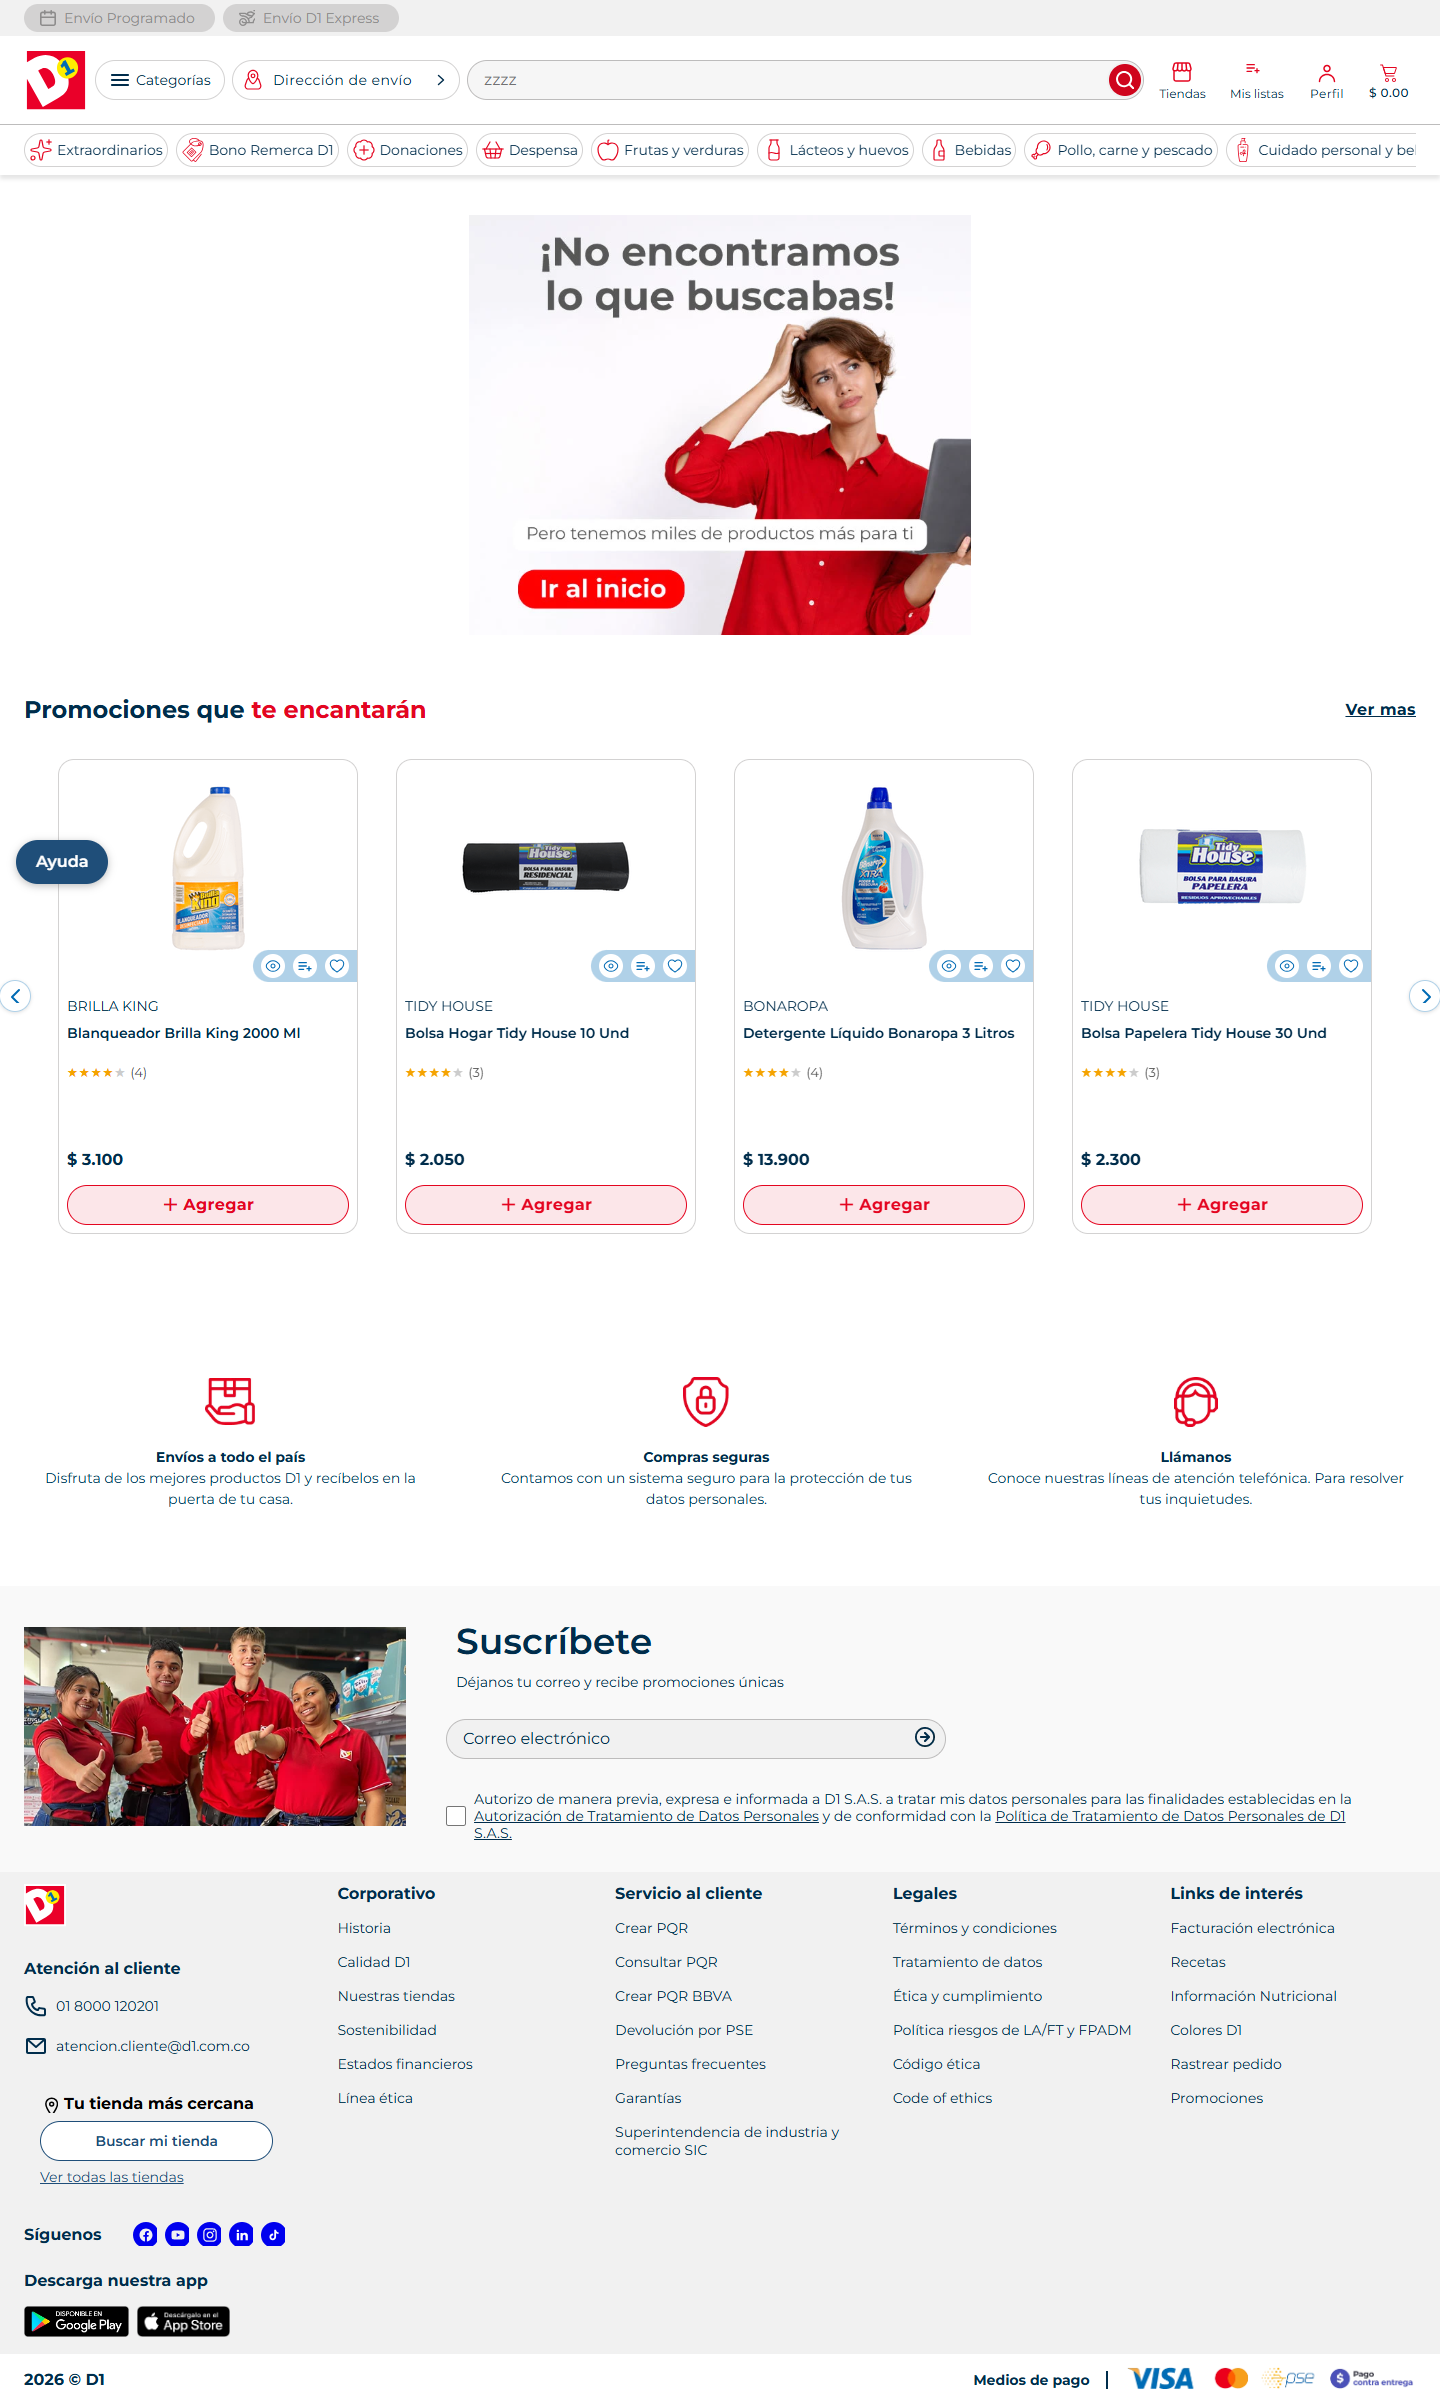
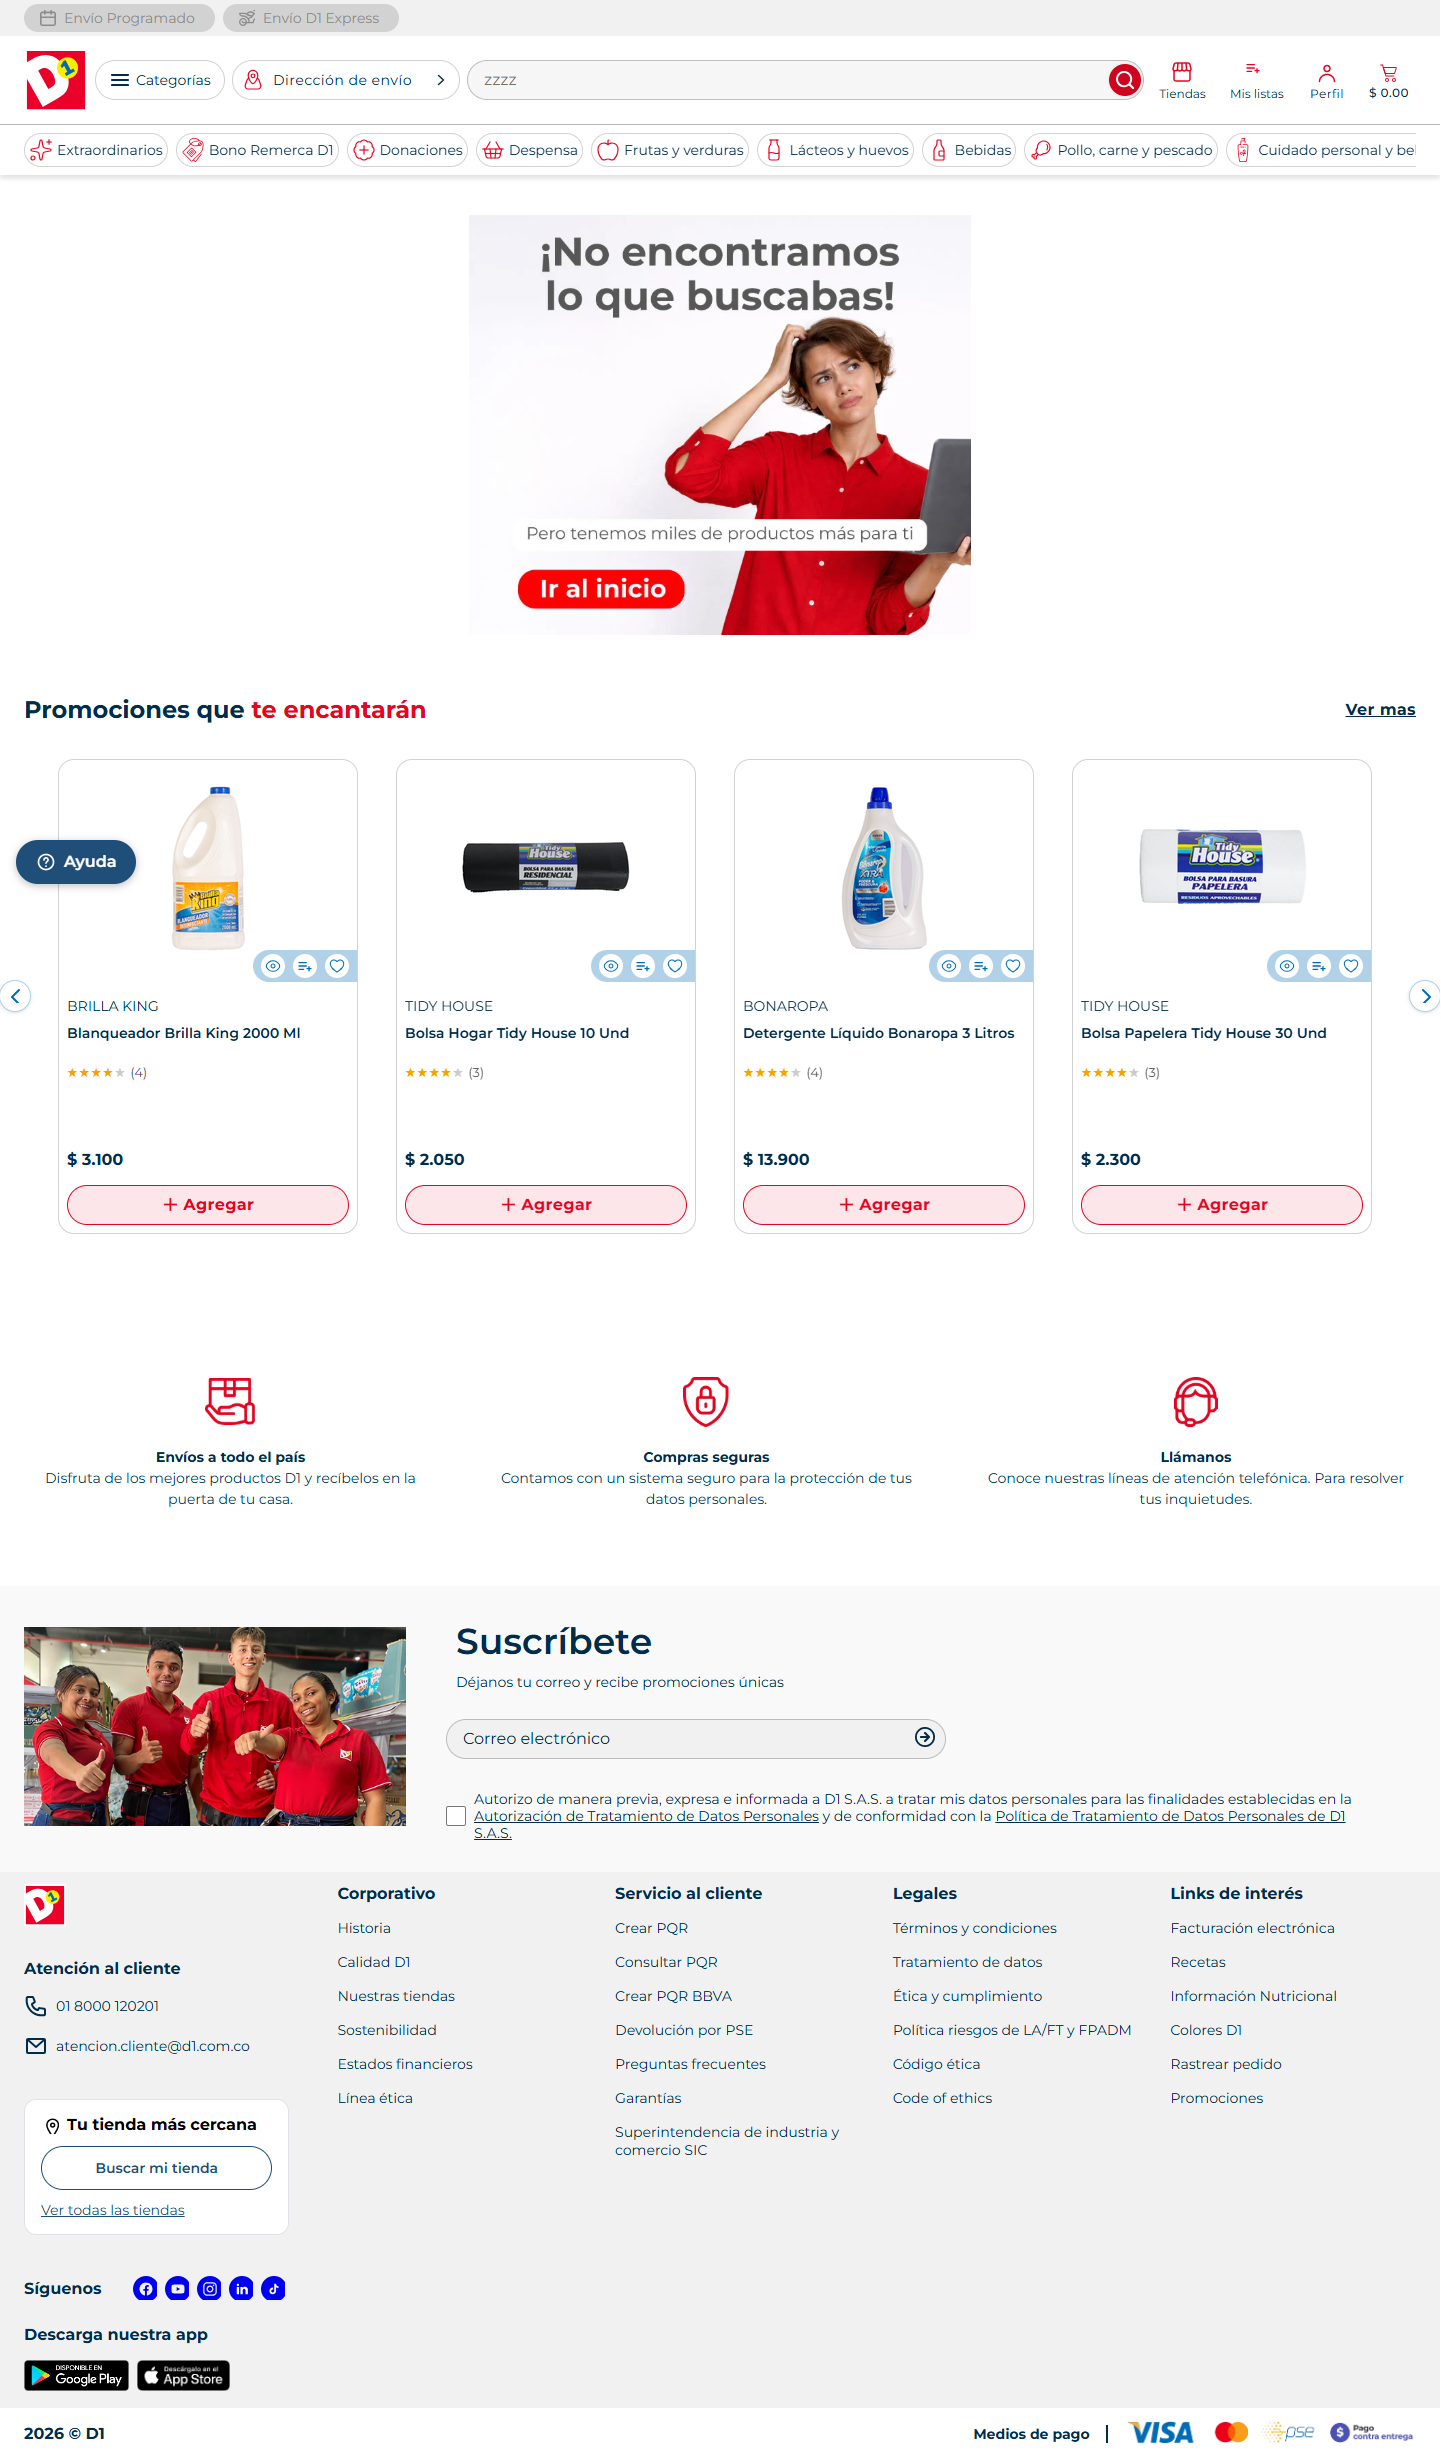
Docs: CHANGELOG del pulido, textos Behance y capturas despues regeneradas

diff --git a/docs/CHANGELOG.md b/docs/CHANGELOG.md
@@ -80,3 +80,29 @@ Regenerarlas: `node docs/capturar.js antes|despues`.
 - Siguen existiendo enlaces del pie de página, del ingreso y de las imágenes hacia d1.com.co y otros sitios reales; no se cambiaron porque no estaban en la lista. Solo "Ir a pagar" se redirigió al checkout simulado.
 - El checkout no valida formularios porque no tiene campos de entrada de datos personales ni de tarjeta.
 - Las capturas de página completa muestran el encabezado y el botón "Ayuda" a mitad de imagen: es un efecto de capturar páginas largas con elementos fijos.
+
+---
+
+## Pulido de confianza  (`pulido-confianza`)
+Ajustes antes de las capturas finales. No hay modo captura ni interruptores: la tienda se ve siempre como una tienda normal.
+
+**Datos de ejemplo (solo marcados en el código con `// DATOS DE PRUEBA`, no en pantalla):**
+- Cambio 1 – sellos, métodos y textos de seguridad: `src/data/pagoSeguro.js`.
+- Cambio 2 – plazos y condiciones de devolución: `src/data/politicas.js`.
+- Cambio 3 – productos agotados: `src/data/inventario.js`.
+- Cambio 4 – reseñas, nombres, estrellas y fechas: `src/data/resenas.js`.
+- Cambio 7 – tiendas: lista que ya traía la copia, `src/data/stores.json` (sin teléfono por tienda).
+- La tabla completa está en el `README.md`.
+
+| Punto | Qué cambió | Archivos |
+|---|---|---|
+| 0. Sin avisos | Se quitaron de la interfaz todos los textos «copia de prueba», «simulación» y «reseña de ejemplo». Textos que había: checkout (aviso, botón y pantalla final), `/devoluciones` (aviso), reseñas (aviso e insignia en cada reseña) y la etiqueta de accesibilidad de las estrellas. | `CheckoutPage.jsx`, `ReturnsPage.jsx`, `ProductReviews.jsx`, `Stars.jsx`, estilos, `README.md` |
+| 1. Pago seguro | «Confirmar pedido» sin «(simulación)». Iconos de los sellos dibujados enteros (caja fija de 40 px, `flex-shrink: 0`, viewBox 24×24, padding) en carrito y `/checkout`. | `InlineIcons.jsx`, `PaymentSeals.jsx`, `pagoSeguro.js`, `pago-seguro.css`, `CheckoutPage.jsx` |
+| 2. Ayuda | Icono «?» a la izquierda del texto del botón flotante y en el encabezado del panel. | `HelpButton.jsx`, `ayuda.css`, `InlineIcons.jsx` |
+| 3. Agotados | La portada oculta los agotados; búsqueda, categoría y URL directa los muestran con «Agotado». La regla vive en un solo lugar: `seMuestraEn(href, contexto)`. Un estante sin productos no se pinta. | `utils/stock.js`, `ProductShelf.jsx`, `SearchPage.jsx` |
+| 4. Reseñas | Nombres colombianos genéricos con inicial del apellido (10 reseñas de ejemplo, de 3 a 6 por producto). Estrellas de las tarjetas = promedio de la ficha. | `data/resenas.js` |
+| 6. Búsqueda | Sugerencias tituladas «Productos (A–Z)», máx. 8, con la coincidencia en negrita, flechas y Enter, y mensaje si no hay resultados. Resultados: «N resultados para 'x'», selector «Ordenar por» visible con Nombre A–Z (por defecto), Nombre Z–A y Relevancia, letras separadoras y orden recordado al afinar la búsqueda. Los listados de categoría usan las mismas opciones. | `SearchBar.jsx`, `utils/search.js`, `SearchPage.jsx`, `ProductListing.jsx`, `SortDropdown.jsx`, `busqueda.css` |
+| 7. Tienda cercana | Tarjeta propia con borde fino, esquinas redondeadas, padding uniforme, ancho completo de su columna y tarjetas de tienda separadas. | `tienda-cercana.css` |
+
+**Capturas nuevas:** `17-resultados-az-*`, `18-resultados-agotado-*`, `19-inicio-sin-agotados-*`; actualizada `15-busqueda-sugerencias-*`. Todas las de «después» se regeneraron.
+`SOLO=17,18 node capturar.js despues` genera solo algunas.

diff --git a/docs/behance/textos.md b/docs/behance/textos.md
@@ -1,6 +1,6 @@
 # Behance copy (English, short)
 
-Sample data (reviews, return terms, sold-out items) is placeholder content for a university prototype.
+Reviews, return terms and sold-out items are placeholder content for a university prototype (marked in the code, not on screen).
 
 ## Project intro
 We measured how much 25 D1 customers trust the online store (Schultz, 2006 model): 56.3/100 overall. Institutional trust sat at 61, interpersonal at 62, dispositional at 46. We redesigned a local copy to lift the first two and re-measure with the same 17-question survey.
@@ -17,12 +17,12 @@ We measured how much 25 D1 customers trust the online store (Schultz, 2006 model
 
 ## 3 · Honest "Sold out"
 **Why:** integrity scored 3.56 / 5, and everything looked buyable.
-**What:** out-of-stock products stay visible with a "Sold out" label and cannot be added to the cart.
+**What:** out-of-stock products are hidden from the home page, and shown with a "Sold out" label (not buyable) in search, categories and product pages.
 **Target:** interpersonal trust, 62 → 70+.
 
 ## 4 · Reviews
 **Why:** capability (3.52) and integrity (3.56) lean on what others say.
-**What:** star ratings on cards and a reviews section on each product, clearly labeled as sample reviews.
+**What:** star ratings on cards and a reviews section on each product.
 **Target:** interpersonal trust, 62 → 70+.
 
 ## 5 · One consistent product sheet
@@ -32,7 +32,7 @@ We measured how much 25 D1 customers trust the online store (Schultz, 2006 model
 
 ## 6 · Better search and A–Z order
 **Why:** search only understood a handful of popular terms.
-**What:** search across the whole catalog, alphabetical suggestions while typing, and A–Z / Z–A sorting.
+**What:** search across the whole catalog, an A–Z suggestions list with the match in bold, keyboard navigation, and results sorted A–Z with letter dividers (Z–A and relevance available).
 **Target:** capability perception (3.52 / 5), interpersonal 62 → 70+.
 
 ## 7 · Your nearest store
